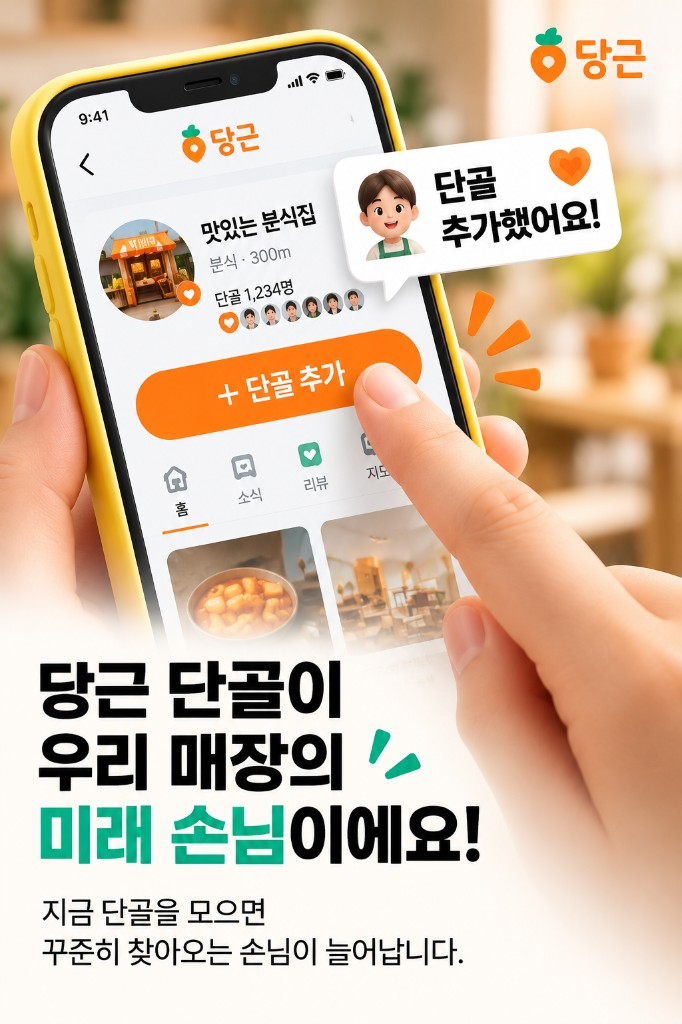
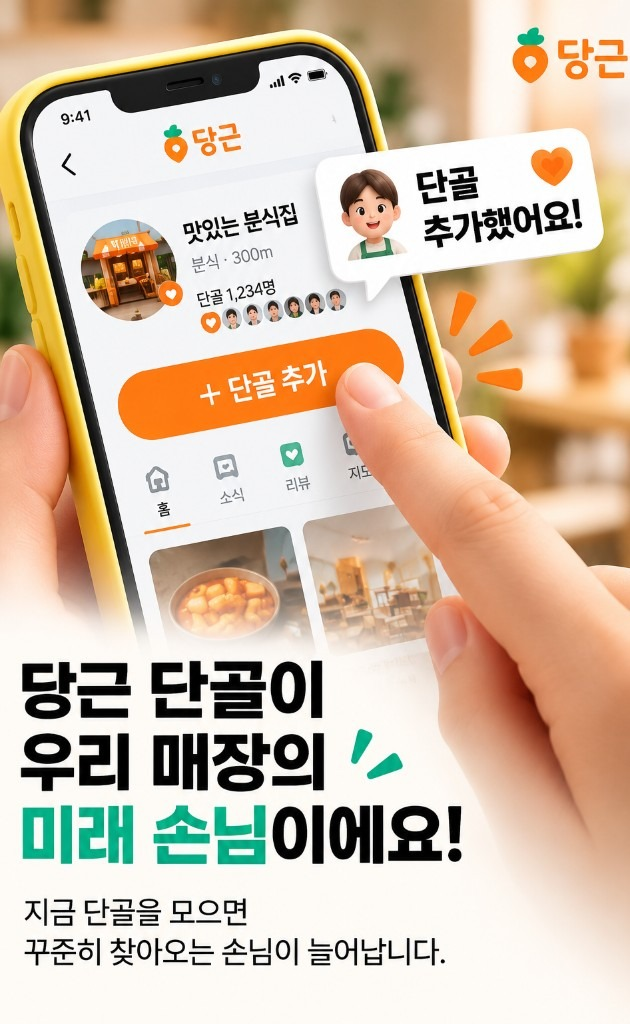
fix: 프로세스 섹션 스크린샷 카드 상하 검은 여백(레터박스) 제거
기존 9:19.5 고정 폰 프레임 비율과 실제 포스터 이미지 비율이 맞지 않아
object-contain 시 위아래 검은 여백이 생기던 문제를 수정. 각 이미지의
실제 비율을 config에 명시하고 프레임이 그 비율을 그대로 따르도록 변경.
아울러 사용자가 새로 제작한 여백 없는 포스터 3장(01/04/09)으로 교체.

diff --git a/lib/landing-v5/config.ts b/lib/landing-v5/config.ts
@@ -15,7 +15,7 @@ export const DEMO_PLAY_URL = 'https://www.dgting.co.kr/play/ca-01'
 export const PRICING = {
   basic: {
     id: 'basic',
-    name: '베이직',
+    name: '단골마케팅',
     regularPrice: 49_000,
     promoPrice: 19_000,
     setupFee: 290_000,
@@ -52,7 +52,7 @@ export const PRICING_BASIC_DISCOUNT_PERCENT = Math.round(
 /** 정가 대비 프로모션가 할인액(원) — 요금제 카드에 "매월 20,000원 할인"처럼 원화로 노출. */
 export const PRICING_BASIC_DISCOUNT_AMOUNT = PRICING.basic.regularPrice - PRICING.basic.promoPrice
 
-/** 베이직 신청 시 오늘 결제할 총액 = 초기 세팅비(1회) + 첫 달 구독료(프로모션가). */
+/** 단골마케팅 신청 시 오늘 결제할 총액 = 초기 세팅비(1회) + 첫 달 구독료(프로모션가). */
 export const PRICING_BASIC_TODAY_TOTAL = PRICING.basic.setupFee + PRICING.basic.promoPrice
 
 /** 요금제 섹션 두 번째 카드 — "AEO마케팅(준비중)" 카드를 대체하는 실제 판매 중인
@@ -60,7 +60,7 @@ export const PRICING_BASIC_TODAY_TOTAL = PRICING.basic.setupFee + PRICING.basic.
  *  즉시 결제가 아닌 리드(상담 신청) 수집 흐름을 탄다. */
 export const CONTENT_OPS = {
   id: 'content-ops',
-  name: '당근 콘텐츠 성장 운영',
+  name: '당근마케팅',
   tagline: '당근 안에서 우리 매장을 계속 발견하게 만드는 콘텐츠 운영',
   price: 330_000,
   items: [
@@ -95,7 +95,7 @@ export const CONTENT_OPS = {
   },
 } as const
 
-/** "당근마켓 컨텐츠 운영" 하위 4개 항목 — /growth/danggeun 페이지의 서비스 카드 4개와
+/** "당근마케팅" 하위 4개 항목 — /growth/danggeun 페이지의 서비스 카드 4개와
  *  요금제 계산기의 02번 그룹 체크박스 4개가 동일한 상품·동일한 금액을 보여줘야 하므로
  *  이름·가격·원시 빈도 표기를 여기 한 곳에서만 정의하고 두 화면이 그대로 참조한다.
  *  최종 문구(예: "· 발행" 등 꾸밈)는 화면마다 톤이 달라 각자 조합하되, 숫자는 절대 다시
@@ -138,12 +138,7 @@ export const CONTENT_OPS_ADDONS = [
 /** 요금제 섹션의 "추가 서비스" 영역 — 이미 만들어져 있는 매장 공개 홈페이지(/b/[storeId])
  *  기능에 가격을 붙여 파는 상품. 초기 제작비(1회)와 월 유지비를 명확히 분리해서 보여준다. */
 export const HOMEPAGE_SERVICE = {
-  name: '검색과 AI를 위한 우리 매장 홈페이지',
-  headline: '손님들이 후기도 쓰고, 검색엔진에 잘 노출되고, AI가 인용 참고하는\n"마케팅 미니홈피"를 만드세요',
-  /** 헤드라인에서 강조색(민트 굵게)으로 표시할 부분 — Sections.tsx가 headline을 이 값으로 split해서 렌더한다 */
-  headlineHighlight: '마케팅 미니홈피',
-  differentiator:
-    '독립 도메인 기반 홈페이지에 매장 정보를 체계적으로 구축하고\n네이버·구글 검색 등록과 SEO·AEO 최적화를 통해\n검색과 AI 시대를 준비하는 우리 매장만의 디지털 자산을 만듭니다.',
+  name: '홈피마케팅',
   setup: {
     label: '초기 제작비',
     price: 270_000,
@@ -201,7 +196,7 @@ export const CALCULATOR_PRODUCTS = [
   },
   {
     id: 3,
-    name: '마케팅 미니 홈피 제작',
+    name: '홈피마케팅',
     setupFee: HOMEPAGE_SERVICE.setup.price,
     monthly: 0,
     cardNote: `가입 후 1년간 무료, 이후 월 ${formatWon(HOMEPAGE_SERVICE.maintenance.price)}으로 자동 전환됩니다.`,
@@ -229,14 +224,14 @@ export const LAUNCH_EVENT = {
   ctaUrl: 'https://www.dgting.co.kr/play/dgting',
 } as const
 
-/** 베이직 신청 완료 화면에 표시하는 입금 계좌 정보 — 세팅비(1회) 수기 입금용. */
+/** 단골마케팅 신청 완료 화면에 표시하는 입금 계좌 정보 — 세팅비(1회) 수기 입금용. */
 export const BANK_ACCOUNT = {
   bank: '신한은행',
   account: '110-635-375949',
   holder: '양경직(아크웍스)',
 } as const
 
-/** 베이직 신청 완료 후 "럭키박스" 웰컴 기프트 리빌에서 항상 보여주는 고정 결과 문구.
+/** 단골마케팅 신청 완료 후 "럭키박스" 웰컴 기프트 리빌에서 항상 보여주는 고정 결과 문구.
  *  DemoModal(다른 CTA들의 랜덤 데모)과는 별개로, 여기서는 랜덤 요소가 없다. */
 export const WELCOME_GIFT_LABEL = '포인트 카탈로그 1개 무료 추가'
 
@@ -312,6 +307,9 @@ export type ScreenshotSlotConfig = {
   src: string
   label: string
   caption: string
+  /** 이미지 원본 비율(가로/세로). 지정하면 프레임이 이 비율로 맞춰져 상하 여백(레터박스)이 생기지 않는다.
+   *  생략 시 실제 폰 스크린샷용 기본 비율(9:19.5)을 사용한다. */
+  aspectRatio?: string
 }
 
 export const SCREENSHOTS: Record<ScreenshotId, ScreenshotSlotConfig> = {
@@ -320,6 +318,7 @@ export const SCREENSHOTS: Record<ScreenshotId, ScreenshotSlotConfig> = {
     src: '/landing-v5/screens/01-entry.jpg',
     label: '게임 진입 화면',
     caption: 'QR 찍고 바로 시작',
+    aspectRatio: '546 / 1024',
   },
   '02': {
     id: '02',
@@ -332,6 +331,7 @@ export const SCREENSHOTS: Record<ScreenshotId, ScreenshotSlotConfig> = {
     src: '/landing-v5/screens/04-result.jpg',
     label: '결과 확인 화면',
     caption: '카카오 로그인 후 선물 공개',
+    aspectRatio: '609 / 1024',
   },
   '05': {
     id: '05',
@@ -356,6 +356,7 @@ export const SCREENSHOTS: Record<ScreenshotId, ScreenshotSlotConfig> = {
     src: '/landing-v5/screens/09-follow.jpg',
     label: '당근마켓 단골 인증',
     caption: '당근마켓에서 단골 추가',
+    aspectRatio: '630 / 1024',
   },
   '10': {
     id: '10',

diff --git a/components/landing-v5/ScreenshotSlot.tsx b/components/landing-v5/ScreenshotSlot.tsx
@@ -16,18 +16,23 @@ type Props = {
 export default function ScreenshotSlot({ shotId, caption, className = '', tone = 'light', fit = 'cover', maxWidth = 280 }: Props) {
   const shot = SCREENSHOTS[shotId]
   const showCaption = caption ?? shot.caption
+  // aspectRatio가 지정된 이미지(실제 디자인 포스터 등)는 프레임을 원본 비율에 정확히 맞춰
+  // object-contain을 써도 상하좌우 여백(레터박스)이 생기지 않는다. 지정이 없으면 기존
+  // 폰 스크린샷용 기본 비율(9:19.5)로 폴백한다.
+  const frameAspectRatio = shot.aspectRatio ?? '9 / 19.5'
+  const hasCustomRatio = Boolean(shot.aspectRatio)
 
   return (
     <figure className={`w-full ${className}`}>
       <div className="relative mx-auto w-full overflow-hidden border border-dg-line bg-[#1A1A1A] shadow-[0_12px_32px_rgba(0,0,0,0.18)]"
-        style={{ aspectRatio: '9 / 19.5', borderRadius: 6, maxWidth }}
+        style={{ aspectRatio: frameAspectRatio, borderRadius: 6, maxWidth }}
       >
         {shot.src ? (
           // eslint-disable-next-line @next/next/no-img-element
           <img
             src={shot.src}
             alt={shot.label}
-            className={`h-full w-full ${fit === 'contain' ? 'object-contain object-center' : 'object-cover object-top'}`}
+            className={`h-full w-full ${hasCustomRatio || fit === 'contain' ? 'object-contain object-center' : 'object-cover object-top'}`}
           />
         ) : (
           <div className="flex h-full flex-col items-center justify-center gap-3 px-5 text-center">
